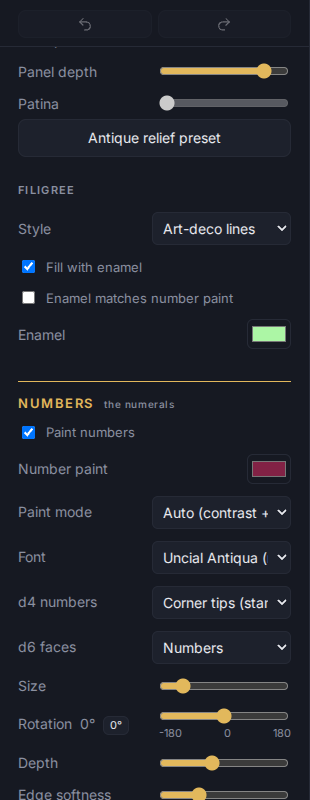
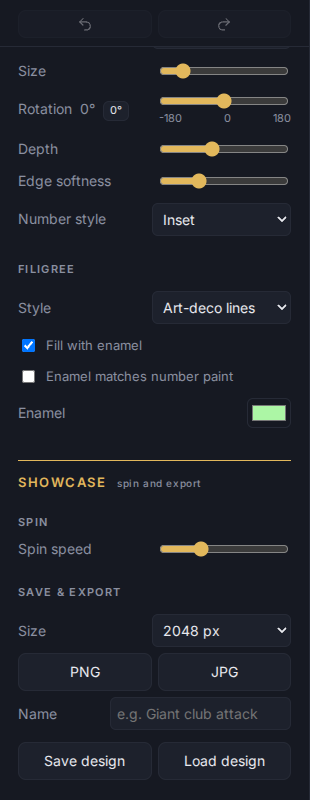
Design pane: Filigree moves to the end of Numbers; new Showcase head over Spin and Save & export; PD-142.38.63, .64

diff --git a/index.html b/index.html
@@ -429,12 +429,6 @@
     <div class="row"><label>Patina</label><input type="range" id="patina" min="0" max="1" step="0.01"></div>
     <button id="antique" style="width:100%;margin-bottom:6px">Antique relief preset</button>
 
-    <h2>Filigree</h2>
-    <div class="row"><label>Style</label><select id="filigree"><option value="none">None</option><option value="scroll">Scrollwork</option><option value="beads">Beaded border</option><option value="deco">Art-deco lines</option></select></div>
-    <div class="chk"><input type="checkbox" id="filifill"><span>Fill with enamel</span></div>
-    <div class="chk"><input type="checkbox" id="enamelsame"><span>Enamel matches number paint</span></div>
-    <div class="row"><label>Enamel</label><input type="color" id="enamel"></div>
-
     <h2 class="cat" id="cat-numbers">Numbers <span>the numerals</span></h2>
     <div class="chk"><input type="checkbox" id="numpaint"><span>Paint numbers</span></div>
     <div class="row"><label>Number paint</label><input type="color" id="paint"></div>
@@ -449,8 +443,15 @@
 
     <div class="row"><label>Number style</label><select id="numstyle"><option value="inset">Inset</option><option value="raised">Raised (embossed)</option></select></div>
 
+    <h2>Filigree</h2>
+    <div class="row"><label>Style</label><select id="filigree"><option value="none">None</option><option value="scroll">Scrollwork</option><option value="beads">Beaded border</option><option value="deco">Art-deco lines</option></select></div>
+    <div class="chk"><input type="checkbox" id="filifill"><span>Fill with enamel</span></div>
+    <div class="chk"><input type="checkbox" id="enamelsame"><span>Enamel matches number paint</span></div>
+    <div class="row"><label>Enamel</label><input type="color" id="enamel"></div>
+
+    <h2 class="cat" id="cat-showcase">Showcase <span>spin and export</span></h2>
     <section id="sec-showcase">
-    <h2>Showcase</h2>
+    <h2>Spin</h2>
     <div class="row"><label>Spin speed</label><input type="range" id="spin" min="0" max="1" step="0.01"></div>
   </section>
   <section id="sec-dice"><h2>Dice to roll</h2><div id="dicechips" role="toolbar" aria-label="Dice to roll: a tap loads the roll box, the Roll button throws"></div></section>
@@ -2116,6 +2117,7 @@ $('dname').oninput=()=>save();
 $('dname').onchange=()=>{ if(!bag||bag.active.draft) return; const e=activeEntry(), v=uniqueName(bag.designs.filter(d=>d!==e).map(d=>d.name),$('dname').value); if(v!==$('dname').value.trim()){ $('dname').value=v; save(); } };   // a name already used in the bag gets the next number   // a typed name is an edit: show Modified and keep it
 /* ---------- 'New' callouts (PD-142.38.3): review builds only (the artifact build sets __PD_REVIEW; ?new=1 turns it on anywhere). One line per user-visible landing: id = card id, rev re-arms an edited feature. ---------- */
 const NEW_FEATURES=[   // PD-142.38.31: only changes since artifact v19 that the owner has not accepted yet. Every landed user-visible change adds an entry here (id = card id, rev 1, anchor on the control); accepted ones are removed.
+  {id:'PD-142.38.63', rev:1, anchor:'#cat-numbers', text:'Filigree now sits at the end of the Numbers section, right after Number style, because it is a face decoration like the numerals. Same four controls (Style, Fill with enamel, Enamel matches number paint, Enamel), same saved designs. The spin speed and the Save & export box now sit under their own Showcase head, so they are no longer read as part of Numbers; the old Showcase sub-heading is now called Spin. Check: Design pane, scroll down through Base, Numbers (ending with Filigree) and Showcase.', card:'PD-142.38.63'},
   {id:'PD-142.38.24', rev:1, anchor:'#cat-base', text:'The design controls are now sorted into two category sections. BASE (the die body): Substrate; Colors (base colours + Randomize, Swirl scale, Edge radius, Finish); Stone; Epoxy; Face panel & patina (Face panel, Panel depth, Patina, Antique relief preset); Filigree. NUMBERS (the numerals): Paint numbers, Number paint, Paint mode (Paint numbers comes first now), Font, d4 numbers, d6 faces, Size, Rotation, Depth, Edge softness, Number style (Inset / Raised; the old "Numbers" selector in Relief). Nothing else changed: same controls, ids and saved designs. Check: Design pane, scroll through Base then Numbers and say if any control belongs on the other side.', card:'PD-142.38.24'},
   {id:'PD-142.38.58', rev:1, anchor:'#name', text:'On a phone the hold-to-look-from-above handle (the small eye) moved from the top-left of the mat to the top-right corner, a bigger thumb target that a right thumb can hold without covering the dice. The title, the game status line and the corner controls now keep clear of it. Check: on a phone, Play, press and hold the eye at the top right: the controls fade and the dice are seen from above; let go to return.', card:'PD-142.38.58'},
   {id:'PD-142.38.59', rev:1, anchor:'#name', text:'On a phone the "Fix n leaning dice" chip and the "n held \u00B7 release" chip moved to the top-right corner, stacked under the look-from-above eye, clear of the title and the status line. The held chip is now the same gold as the held ring on the mat (it was orange). Check: on a phone, Play, hold a die (long press) and roll until one leans: both chips sit at the top right.', card:'PD-142.38.59'},

diff --git a/docs/guide/02-designing-a-die.md b/docs/guide/02-designing-a-die.md
@@ -1,6 +1,6 @@
 # Designing a die
 
-Everything here is in the **Look** tab of the side panel in the Design room. Changes show immediately and can be undone with Ctrl+Z. Each design in the bag remembers its own look. The controls below the shape are sorted into two sections: **Base** (the die body: substrate, colours, stone, epoxy, face panel and patina, filigree) and **Numbers** (the numerals: paint, font, size, relief style).
+Everything here is in the **Look** tab of the side panel in the Design room. Changes show immediately and can be undone with Ctrl+Z. Each design in the bag remembers its own look. The controls below the shape are sorted into three sections: **Base** (the die body: substrate, colours, stone, epoxy, face panel and patina), **Numbers** (the face decoration: numeral paint, font, size, relief style, then filigree) and **Showcase** (spin speed, then Save & export).
 
 ## Shape
 
@@ -33,13 +33,13 @@ The material the die is made of (choosing **Stone** gives you a random stone; th
 - **Size**, **Rotation**, **Depth** and **Edge softness** adjust the digits.
 - **Number style** (the last Numbers control): **Inset** or **Raised (embossed)**. Raised needs a face panel (see below).
 
-## Face panel, patina and filigree (Base)
+## Face panel and patina (Base), filigree (end of Numbers)
 
 ![Face panel, relief, patina and filigree options](img/06-relief-filigree.png)
 
 - **Face panel** and **Panel depth** sink or raise a panel behind the number. The panel is what lets the numbers be Raised.
 - **Patina** ages the die; **Antique relief preset** applies a worn look in one click.
-- **Filigree** adds ornament: Scrollwork, Beaded border or Art-deco lines. **Fill with enamel** colours it in; **Enamel matches number paint** keeps the two in step.
+- **Filigree** (the last controls in the Numbers section, after Number style) adds ornament: Scrollwork, Beaded border or Art-deco lines. **Fill with enamel** colours it in; **Enamel matches number paint** keeps the two in step.
 
 ## Naming and keeping a design
 
